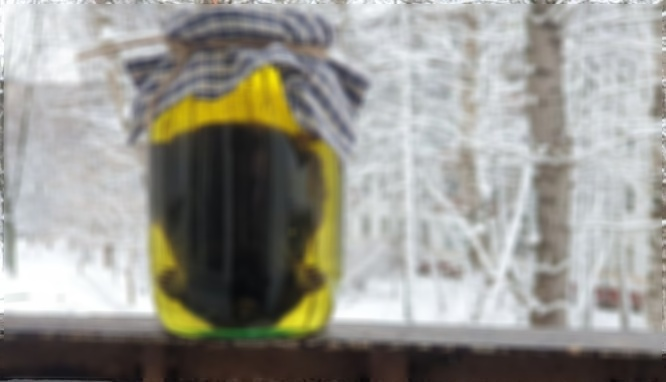
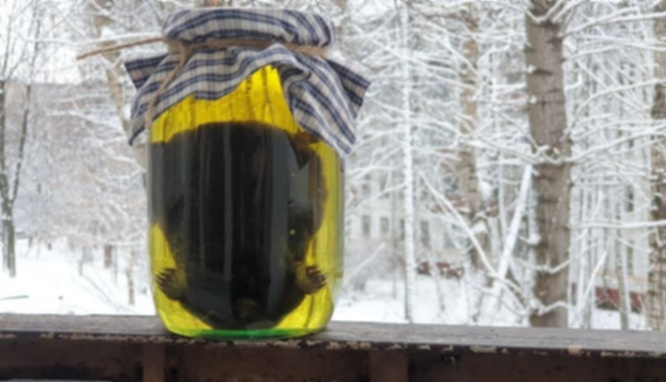
lab_2

diff --git a/filters/filters.cpp b/filters/filters.cpp
@@ -43,26 +43,7 @@ pixel_t Gaussian(cv::Mat roi, double sigma) {
   return result;
 }
 
-template <class pixel_t, class allignment_t = pixel_t>
-pixel_t Laplasian(cv::Mat roi) {
-  pixel_t result;
-  allignment_t resultAllignment;
-  int x = roi.cols / 2;
-  int y = roi.rows / 2;
-  allignment_t val_1 = roi.at<pixel_t>(x + 1, y);
-  allignment_t val_2 = roi.at<pixel_t>(x - 1, y);
-  allignment_t val_3 = roi.at<pixel_t>(x, y + 1);
-  allignment_t val_4 = roi.at<pixel_t>(x, y - 1);
-  allignment_t val_0 = roi.at<pixel_t>(x, y);
-  resultAllignment = val_1 + val_2 + val_3 + val_4 - 4 * val_0;
-
-  result = resultAllignment;
-  return result;
-}
-
-template <>
-cv::Vec3b Laplasian<cv::Vec3b, cv::Vec3i>(cv::Mat roi) {
-  cv::Vec3b result;
+cv::Vec3i Laplasian(cv::Mat roi) {
   cv::Vec3i resultAllignment;
   int x = roi.cols / 2;
   int y = roi.rows / 2;
@@ -72,9 +53,8 @@ cv::Vec3b Laplasian<cv::Vec3b, cv::Vec3i>(cv::Mat roi) {
   cv::Vec3i val_4 = roi.at<cv::Vec3b>(x, y - 1);
   cv::Vec3i val_0 = roi.at<cv::Vec3b>(x, y);
   cv::Vec3i val_res = val_1 + val_2 + val_3 + val_4 - 4 * val_0;
-  resultAllignment = CVAbs(val_res);
-  result = resultAllignment;
-  return result;
+  resultAllignment = val_res;
+  return resultAllignment;
 }
 
 }  // namespace
@@ -145,8 +125,10 @@ cv::Mat Filtering::LaplasianFilter(cv::Mat image, double alpha) {
       cv::Rect window(j - shift, i - shift, windowSize, windowSize);
       switch (result.channels()) {
         case 3: {
+          auto laplasian = Laplasian(image(window));
+          cv::Vec3b laplasianVec = alpha * laplasian;
           result.at<cv::Vec3b>(i, j) =
-              image.at<cv::Vec3b>(i, j) - alpha * Laplasian<cv::Vec3b, cv::Vec3i>(image(window));
+              image.at<cv::Vec3b>(i, j) + laplasianVec;
         }
       }
     }
@@ -156,7 +138,8 @@ cv::Mat Filtering::LaplasianFilter(cv::Mat image, double alpha) {
 }
 
 cv::Mat Filtering::UnsharpMasking(cv::Mat image, cv::Mat smoothed_image, double alpha) {
-  return (image + alpha * (image - smoothed_image));
+  cv::Mat result = (image + alpha * (image - smoothed_image));
+  return result;
 }
 
 std::pair<cv::Mat, double> Filtering::CalcDiff(cv::Mat image_1,

diff --git a/main.cpp b/main.cpp
@@ -1,35 +1,17 @@
-#include "filters/filters.h"
-
 #include <opencv2/highgui.hpp>
 #include <opencv2/opencv.hpp>
 
+#include "filters/filters.h"
+#include "tickmetr/TickMeter.h"
+
 int main() {
-    size_t windowSize = 9;
-    cv::Mat input = cv::imread("../files/moleworm.jpg");
+  double laplase_alpha = -3;
+  double alpha = 10;
 
-    cv::Mat customBoxFilter = Filtering::BoxFilter(input, windowSize);
-    cv::Mat cvBoxFilter;
-    cv::blur(input, cvBoxFilter, cv::Size(windowSize,windowSize));
-    auto diffBoxFilter = Filtering::CalcDiff(customBoxFilter, cvBoxFilter);
-    cv::imwrite("../files/customBoxFilter.jpg", customBoxFilter);
-    cv::imwrite("../files/cvBoxFilter.jpg", cvBoxFilter);
-    cv::imwrite("../files/diffBoxFilter.jpg", diffBoxFilter.first);
+  cv::Mat input = cv::imread("../files/moleworm.jpg");
+  cv::Mat unsharpLaplasian  = Filtering::UnsharpMasking(input, Filtering::LaplasianFilter(input, laplase_alpha), alpha);
+  cv::imshow("unsharpLaplasian", unsharpLaplasian);
+  cv::waitKey(-1);
 
-
-    cv::Mat customGaussianFilter = Filtering::GaussianFilter(input, 4, windowSize); 
-    cv::Mat cvGaussinFilter;
-    cv::GaussianBlur(input, cvGaussinFilter, cv::Size(windowSize,windowSize), 4);
-    auto diffGaussianBoxFilter = Filtering::CalcDiff(customGaussianFilter, customBoxFilter);
-    diffGaussianBoxFilter.first = Filtering::LogIntensityCorrection(diffGaussianBoxFilter.first, 20);
-    cv::imwrite("../files/customGaussianFilter.jpg", customGaussianFilter);
-    cv::imwrite("../files/cvGaussinFilter.jpg", cvGaussinFilter);
-    cv::imwrite("../files/diffGaussianBoxFilter.jpg", diffGaussianBoxFilter.first);
-
-    cv::Mat customLaplasinFilter = Filtering::LaplasianFilter(input, 0.6);
-    cv::imwrite("../files/customLaplasinFilter.jpg", customLaplasinFilter);
-
-    cv::Mat customBoxMask = Filtering::UnsharpMasking(input, customBoxFilter, 0.5);
-    cv::imwrite("../files/customBoxMask.jpg", customBoxMask);
-
-    return 0;
+  return 0;
 }
